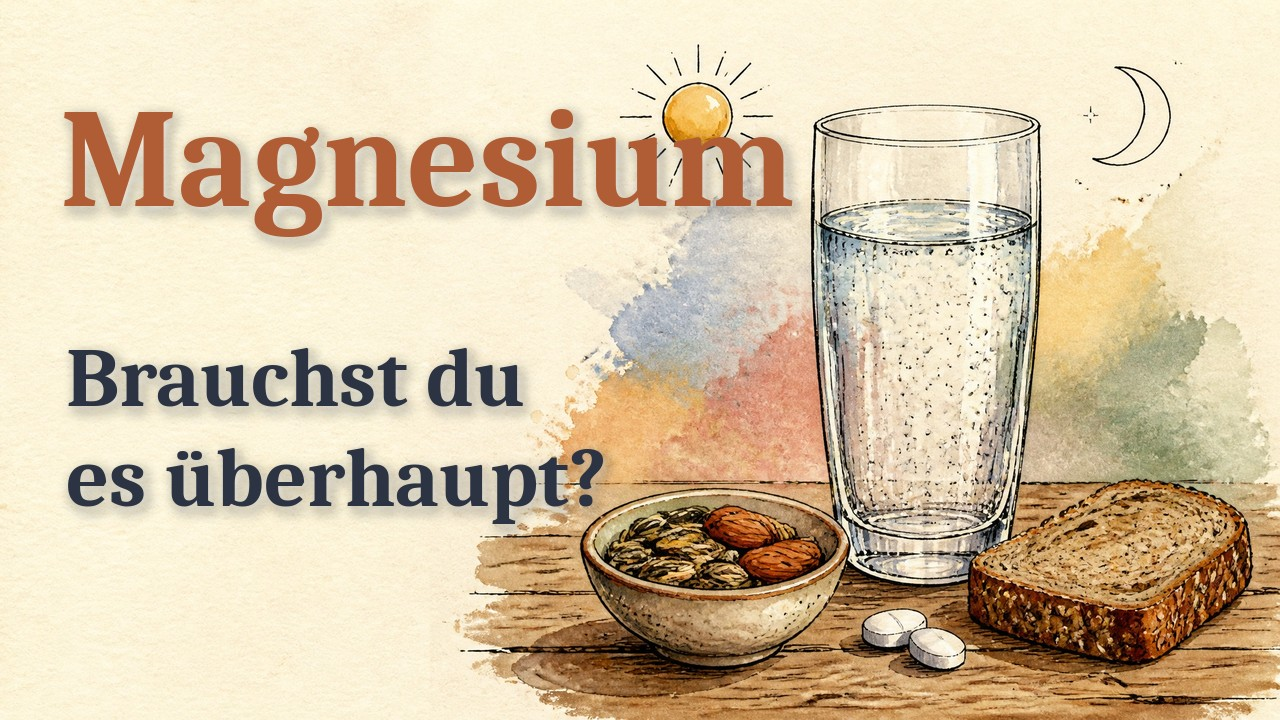
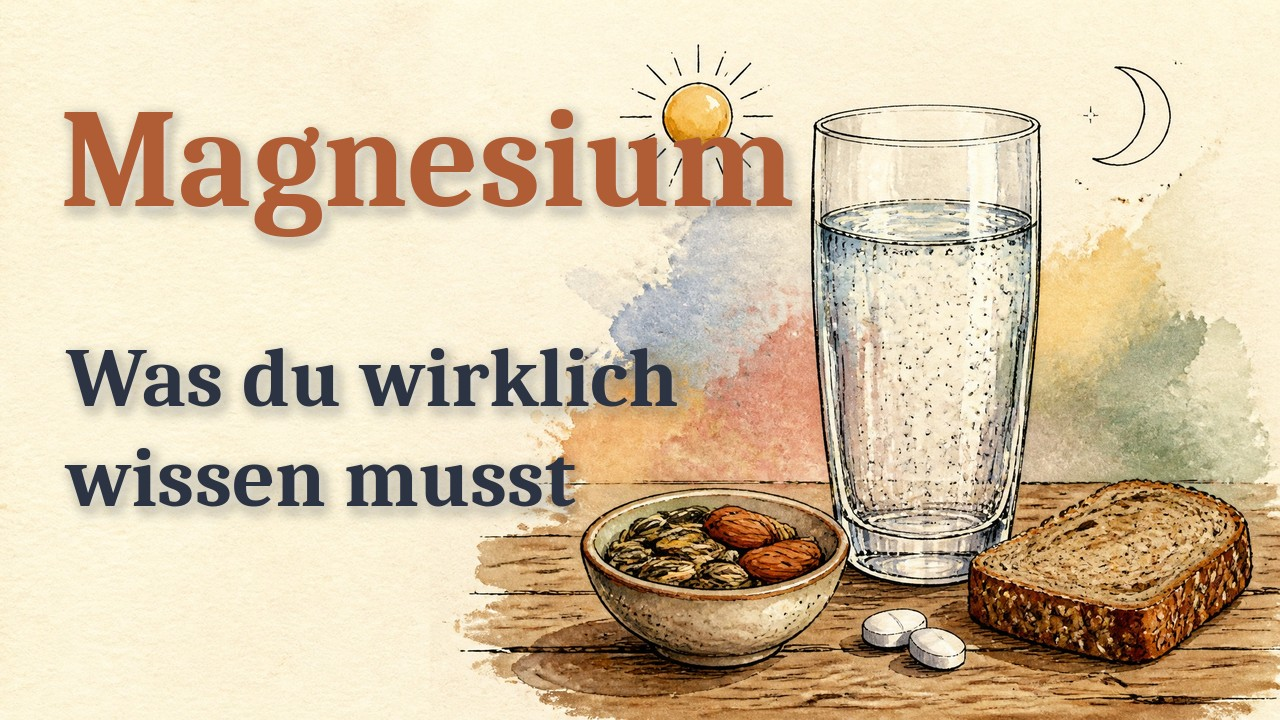
Magnesium-Reihe Folge 1: Titel „Was du wirklich wissen musst“, Vorschaubild und Beschreibung angepasst, keine Kommentarfrage
Claude-Session: https://claude.ai/code/session_01LHRCLsWLoRxYdWVZ859aSS

Changed region(s): [[0.0312, 0.4583, 0.5312, 0.5806], [0.0312, 0.6111, 0.5, 0.7639]]

diff --git a/themen/magnesium-reihe/01-ueberblick/vorschau/index.html b/themen/magnesium-reihe/01-ueberblick/vorschau/index.html
@@ -1,4 +1,4 @@
-<title>Magnesium-Reihe · Folge 1: Brauchst du es überhaupt? · Vorschau</title>
+<title>Magnesium-Reihe · Folge 1: Was du wirklich wissen musst · Vorschau</title>
 <meta name="claude:viewport-fit-sides" content="cover">
 <style>
   /* Eine Spalte, je Fassung eine Karte mit Player; die neueste oben. */
@@ -36,20 +36,20 @@
   button:focus-visible, textarea:focus-visible { outline: 3px solid var(--akzent); outline-offset: 2px; }
 </style>
 <main>
-  <h1>Magnesium-Reihe · Folge 1: Brauchst du es überhaupt? · Vorschau</h1>
+  <h1>Magnesium-Reihe · Folge 1: Was du wirklich wissen musst · Vorschau</h1>
   <p class="aufgabe"><b>Deine Aufgabe:</b> Endfassung Folge 1 (6:05), Hörprobe von dir abgenommen am 14.11. Bitte ganz ansehen: „passt“ oder „ändern“ mit Notiz. Vorschaubild und YouTube-Beschreibung unten. Ton kommt beim Antippen von ▶; nichts wird heruntergeladen.</p>
   <article class="video" id="v1" data-id="v_5064b97446" data-titel="Folge 1 · Endfassung">
       <div class="kopfzeile"><h2>Folge 1 · Endfassung</h2><span class="marke pruefen">zu prüfen</span></div>
       <p class="stand">Stand 14.11., 22:46 · 13.1 MB</p>
       <video controls playsinline preload="metadata" poster="videos/v_5064b97446.jpg" src="videos/v_5064b97446.mp4"></video>
-      <p class="notiz">Erklärvideo, Stil G. Startbild mit den drei Einstiegsfragen, sechs Kacheln, am Ende Fazit „Kurz gesagt“ (greift die Einstiegsfragen auf), Karte der Reihe und Brückensatz zu Folge 2. Ohne Kommentarfrage (4c offen, lässt sich mit einem Satz nachrüsten).</p>
+      <p class="notiz">Erklärvideo, Stil G. Startbild mit den drei Einstiegsfragen, sechs Kacheln, am Ende Fazit „Kurz gesagt“ (greift die Einstiegsfragen auf), Karte der Reihe und Brückensatz zu Folge 2. Ohne Kommentarfrage (deine Wahl). Titel und Vorschaubild jetzt „Was du wirklich wissen musst“ (deine Wahl 14.11.).</p>
       <div class="urteil"><button type="button" data-u="passt">✓ passt</button><button type="button" data-u="aendern">ändern</button></div><textarea rows="2" placeholder="Was soll anders werden?" aria-label="Notiz zu Folge 1 · Endfassung"></textarea><div class="zeile"><button type="button" class="senden">An Claude</button><span class="melde" role="status" aria-live="polite"></span></div>
     </article>
 </main><section style="margin:24px auto;max-width:900px;padding:0 16px">
 <h2 style="font:700 22px Georgia,serif">YouTube: Vorschaubild und Beschreibung</h2>
 <img src="thumbnail_G.jpg" alt="Vorschaubild Magnesium" style="width:100%;border-radius:10px">
 <p><button type="button" id="kopier" style="font:inherit;font-weight:600;padding:12px 16px;border-radius:10px;min-height:48px">Beschreibung kopieren</button> <span id="kopiert"></span></p>
-<textarea id="beschr" rows="18" readonly style="width:100%;font:15px/1.4 system-ui,sans-serif;padding:10px;border-radius:10px">Magnesium: Brauchst du es überhaupt? Der Überblick
+<textarea id="beschr" rows="18" readonly style="width:100%;font:15px/1.4 system-ui,sans-serif;padding:10px;border-radius:10px">Magnesium: Was du wirklich wissen musst
 Folge 1 der Magnesium-Reihe: wozu der Körper Magnesium braucht, wie viel und woher, wie häufig ein Mangel ist, welche Formen es gibt, wofür es belegt ist und worauf du bei der Einnahme achten solltest.
 
 Kapitel
@@ -102,7 +102,7 @@ Sprecherstimme synthetisch (ElevenLabs). Bilder KI-generiert. Das Video ersetzt 
 </section>
 <script>
 (function () {
-  var TITEL = "Magnesium-Reihe · Folge 1: Brauchst du es überhaupt?", db = null, kom = null, anClaude = false, urteil = {};
+  var TITEL = "Magnesium-Reihe · Folge 1: Was du wirklich wissen musst", db = null, kom = null, anClaude = false, urteil = {};
   document.querySelectorAll("video").forEach(function (v) { v.addEventListener("play", function () {
     document.querySelectorAll("video").forEach(function (w) { if (w !== v) w.pause(); }); v.muted = false; }); });
   document.querySelectorAll(".video").forEach(function (k) {
@@ -130,4 +130,5 @@ Sprecherstimme synthetisch (ElevenLabs). Bilder KI-generiert. Das Video ersetzt 
   }
 })();
 </script>
+
 <script>document.getElementById("kopier").addEventListener("click",function(){navigator.clipboard.writeText(document.getElementById("beschr").value).then(function(){document.getElementById("kopiert").textContent="Kopiert.";},function(){document.getElementById("kopiert").textContent="Kopieren ging nicht, bitte im Feld markieren.";});});</script>

diff --git a/themen/magnesium-reihe/01-ueberblick/web_teilen/index.html b/themen/magnesium-reihe/01-ueberblick/web_teilen/index.html
@@ -3,7 +3,7 @@
 <head>
 <meta charset="utf-8">
 <meta name="viewport" content="width=device-width, initial-scale=1">
-<title>Magnesium: Brauchst du es überhaupt? Der Überblick</title>
+<title>Magnesium: Was du wirklich wissen musst</title>
 <style>
   :root { color-scheme: light dark; --ink:#222632; --muted:#6f6a66; --bg:#faf3ea; --card:#fffaf3; --accent:#324e7a; --line:#e6dccf; }
   @media (prefers-color-scheme: dark) { :root { --ink:#ece7e0; --muted:#a8a29b; --bg:#1c1b1a; --card:#262422; --accent:#8fb0e3; --line:#3a3633; } }
@@ -25,7 +25,7 @@
 </head>
 <body>
 <main>
-  <h1>Magnesium: Brauchst du es überhaupt? Der Überblick</h1>
+  <h1>Magnesium: Was du wirklich wissen musst</h1>
   <p class="lead">Folge 1 der Magnesium-Reihe: wozu der Körper Magnesium braucht, wie viel und woher, wie häufig ein Mangel ist, welche Formen es gibt, wofür es belegt ist und worauf du bei der Einnahme achten solltest.</p>
   <video id="v" controls playsinline preload="metadata" src="video.mp4"></video>
   <div class="kap">

diff --git a/themen/magnesium-reihe/01-ueberblick/drehbuch_bau.py b/themen/magnesium-reihe/01-ueberblick/drehbuch_bau.py
@@ -1,4 +1,4 @@
-"""Drehbuch Folge 1 „Magnesium: Brauchst du es überhaupt?“ (Magnesium-Reihe), Erklärvideo ohne Ampel, Stil G (Aquarell und Tusche).
+"""Drehbuch Folge 1 „Magnesium: Was du wirklich wissen musst“ (Magnesium-Reihe), Erklärvideo ohne Ampel, Stil G (Aquarell und Tusche).
 Fakten und Quellen: faktencheck.md, recherche_A.md, recherche_B.md (14.11.2026). Gliederung: ../konzept.md.
 Dosierungen nur als Beschreibung von Behörden und Studien, keine Marken. Aufruf: python3 drehbuch_bau.py"""
 import json, os
@@ -155,7 +155,7 @@ SZENEN = [
  {'id': 'm8', 'layout': 'kacheln', 'kapitel': 'Die Reihe', 'kicker': 'Erklärvideo', 'headline': 'Alles über Magnesium: die Reihe',
   'sentences': ['In den nächsten Folgen geht es um jede Frage einzeln: morgens oder abends, welche Formen, Mangel erkennen, die Obergrenze, Schlaf und Stress. Danach Krämpfe, Blutdruck, Migräne, Frauen und Lebensmittel.',
                 'Als Nächstes: Warum hält sich der Rat, Magnesium abends zu nehmen, so hartnäckig?',
-                # Kommentarfrage (Entscheidung 4c) offen, Nutzer 14.11.: „weiß nicht genau, wie du es umsetzen willst“
+                # Keine Kommentarfrage (Nutzerentscheidung 4c, 14.11.)
                 ABSCHLUSS],
   'hervorheben_at': 0,
   'kacheln': [('Morgens oder abends?', 'r2', 'abends'), ('Welche Form?', 'r3', 'Formen'),
@@ -181,7 +181,7 @@ def bauen(stil):
         szenen.append(s)
     return {'tts': 'elevenlabs', 'voice_id': 'NBqeXKdZHweef6y0B67V', 'model': 'eleven_v4', 'tempo': 1.05,
             'aussprache': AUSSPRACHE,
-            'titel': 'Magnesium: Brauchst du es überhaupt? Der Überblick', 'stil': stil,
+            'titel': 'Magnesium: Was du wirklich wissen musst', 'stil': stil,
             'untertitel': 'Folge 1 der Magnesium-Reihe: wozu der Körper Magnesium braucht, wie viel und woher, wie häufig ein Mangel ist, welche Formen es gibt, wofür es belegt ist und worauf du bei der Einnahme achten solltest.',
             'fuss': 'Sprecherstimme synthetisch (ElevenLabs). Bilder KI-generiert. Das Video ersetzt nicht das Gespräch mit Arzt oder Ärztin.',
             'scenes': szenen, 'quellen': Q}

diff --git a/themen/magnesium-reihe/01-ueberblick/thumbnail_bau.py b/themen/magnesium-reihe/01-ueberblick/thumbnail_bau.py
@@ -18,7 +18,7 @@ SERIF_B = '/usr/share/fonts/truetype/crosextra/Caladea-Bold.ttf'
 haupt, akzent = (44, 52, 68), (176, 92, 52)
 im = Image.open(ziel).convert('RGB').resize((1280, 720), Image.LANCZOS)
 schatten = Image.new('RGBA', im.size, (0, 0, 0, 0)); d = ImageDraw.Draw(schatten)
-texte = [((60, 80), 'Magnesium', 140, akzent), ((66, 330), 'Brauchst du', 84, haupt), ((66, 430), 'es überhaupt?', 84, haupt)]
+texte = [((60, 80), 'Magnesium', 140, akzent), ((66, 330), 'Was du wirklich', 84, haupt), ((66, 430), 'wissen musst', 84, haupt)]
 for (x, y), t, g, _ in texte:
     d.text((x + 4, y + 5), t, font=ImageFont.truetype(SERIF_B, g), fill=(255, 255, 255, 170))
 im = Image.alpha_composite(im.convert('RGBA'), schatten.filter(ImageFilter.GaussianBlur(6)))

diff --git a/themen/magnesium-reihe/konzept.md b/themen/magnesium-reihe/konzept.md
@@ -14,7 +14,7 @@ Formen bekommen eine Vergleichsfolge (3) und in jeder Anwendungsfolge einen Absc
 ## Reihenplan
 | Nr. | Folge | Ordner |
 |---|---|---|
-| 1 | Magnesium in 5 Minuten (Überblick, Landkarte der Reihe) | `01-ueberblick/` |
+| 1 | Magnesium: Was du wirklich wissen musst (Überblick, Landkarte der Reihe) | `01-ueberblick/` |
 | 2 | Morgens oder abends? | |
 | 3 | Welches Magnesium? Formen im Vergleich | |
 | 4 | Magnesiummangel erkennen (Zeichen, Bluttest) | |
@@ -53,4 +53,5 @@ Formen bekommen eine Vergleichsfolge (3) und in jeder Anwendungsfolge einen Absc
 
 ## Offene Nutzerentscheidungen (gestellt 14.11.)
 Entschieden 14.11.: 1 Variante C ja · 2 alte Videos „Magnesium“ und „Magnesium 2“ werden durch die Reihe ersetzt · 3 Erklärvideo ja ·
-4a Fazit greift Einstiegsfragen auf: ja · 4b Brückensatz zur nächsten Folge: ja · 4c Kommentarfrage: offen (Umsetzung erklärt).
+4a Fazit greift Einstiegsfragen auf: ja · 4b Brückensatz zur nächsten Folge: ja · 4c Kommentarfrage: keine.
+Titel Folge 1 (14.11.): „Magnesium: Was du wirklich wissen musst“ (ohne „5 Minuten“, Video 6:05).

diff --git a/themen/magnesium-reihe/01-ueberblick/LIESMICH.md b/themen/magnesium-reihe/01-ueberblick/LIESMICH.md
@@ -1,4 +1,4 @@
-# Folge 1 „Magnesium: Brauchst du es überhaupt? Der Überblick“ (14.11.2026)
+# Folge 1 „Magnesium: Was du wirklich wissen musst“ (14.11.2026)
 
 Auftrag: `AUFTRAG.md`, Reihe: `../konzept.md`. Vorbild `themen/l-theanin/`.
 - `recherche_A.md` (Nachprüfung, 2024–2026), `recherche_B.md` (Körper, Risikogruppen, Wechselwirkungen, Lebensmittel,
@@ -13,4 +13,4 @@ Auftrag: `AUFTRAG.md`, Reihe: `../konzept.md`. Vorbild `themen/l-theanin/`.
 - Gerendert 14.11.: `render.py szenen.json bilder/G/k1.jpg video.mp4`; Startbild-Zeile auf „Tageszeit: nie verglichen.“
   gekürzt (längere Fassungen liefen ins Glas). Vorschau 720p/12 fps 13,1 MB, 1080p fürs Handy 48,3 MB (880k, zwei Durchgänge).
 - Vorschau-Seite: https://claude.ai/artifact/RT23abh5FpQbhjia7SUSib (mit Vorschaubild und Beschreibung).
-- Offen: Entscheidung 4c (Kommentarfrage, ein Satz in m8, ≈ 400 Zeichen Ton), Abnahme des Videos.
+- 14.11. abends: Titel „Was du wirklich wissen musst“ (Nutzerwahl), Vorschaubild und Beschreibung angepasst; keine Kommentarfrage. Offen: Abnahme des Videos.
